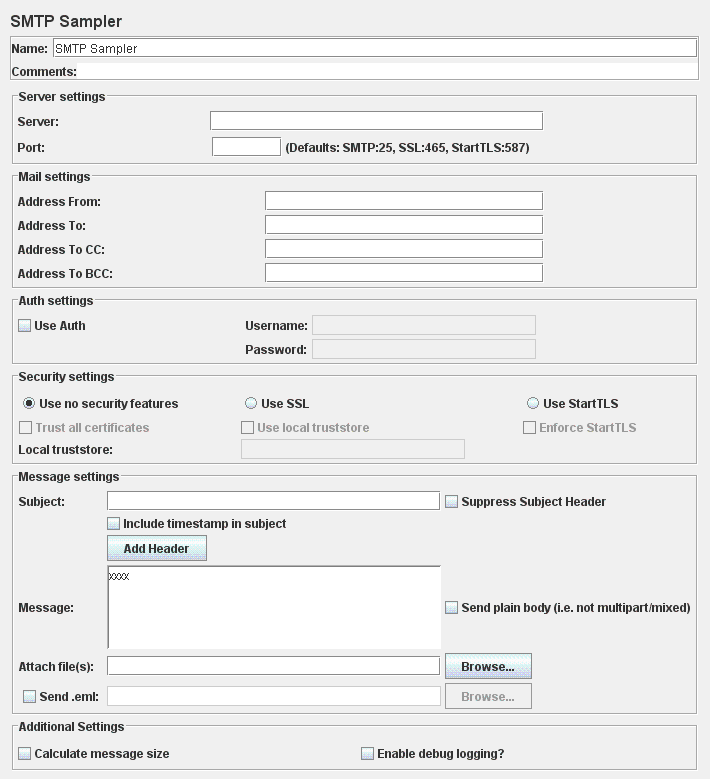
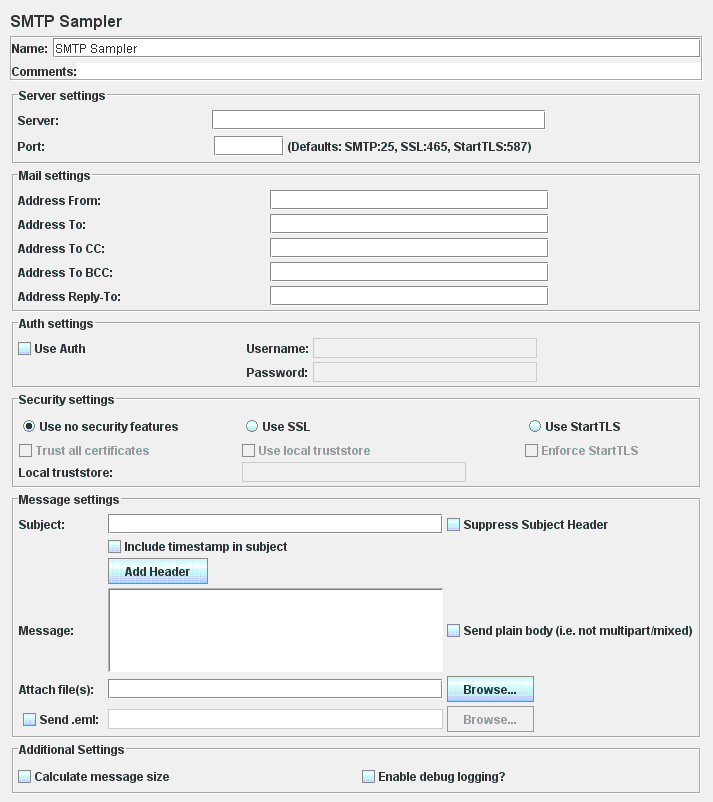
Add Reply-To field to SMTP Sampler
git-svn-id: https://svn.apache.org/repos/asf/jakarta/jmeter/trunk@992261 13f79535-47bb-0310-9956-ffa450edef68

Former-commit-id: 8c173aa5c130b252de240920f7f08f495041bb5d

Changed region(s): [[0.0, 0.0, 0.9915, 0.9859], [0.6197, 0.7702, 0.9915, 0.801], [0.031, 0.7702, 0.093, 0.801]]

diff --git a/src/protocol/mail/org/apache/jmeter/protocol/smtp/sampler/gui/SmtpPanel.java b/src/protocol/mail/org/apache/jmeter/protocol/smtp/sampler/gui/SmtpPanel.java
@@ -53,6 +53,7 @@ public class SmtpPanel extends JPanel {
 
     // local vars
     private JTextField tfMailFrom;
+    private JTextField tfMailReplyTo;
     private JButton browseButton;
     private JButton emlBrowseButton;
     private JCheckBox cbUseAuth;
@@ -67,6 +68,7 @@ public class SmtpPanel extends JPanel {
     private JCheckBox cbPlainBody;
 
     private JLabel jlAddressFrom;
+    private JLabel jlAddressReplyTo;
     private JLabel jlAddressTo;
     private JLabel jlAddressToCC;
     private JLabel jlAddressToBCC;
@@ -471,12 +473,23 @@ public class SmtpPanel extends JPanel {
         }
         validate();
     }
+
+    public String getMailReplyTo() {
+        return tfMailReplyTo.getText();
+    }
+
+    public void setMailReplyTo(String replyTo) {
+        tfMailReplyTo.setText(replyTo);        
+    }
+    
+
     /**
      * Main method of class, builds all gui-components for SMTP-sampler.
      */
     private void initComponents() {
         GridBagConstraints gridBagConstraints, gridBagConstraintsMain;
 
+        jlAddressReplyTo = new JLabel(JMeterUtils.getResString("smtp_replyto")); // $NON-NLS-1$
         jlAddressFrom = new JLabel(JMeterUtils.getResString("smtp_from")); // $NON-NLS-1$
         jlAddressTo = new JLabel(JMeterUtils.getResString("smtp_to")); // $NON-NLS-1$
         jlAddressToCC = new JLabel(JMeterUtils.getResString("smtp_cc")); // $NON-NLS-1$
@@ -493,6 +506,7 @@ public class SmtpPanel extends JPanel {
         tfMailServer = new JTextField(30);
         tfMailServerPort = new JTextField(6);
         tfMailFrom = new JTextField(25);
+        tfMailReplyTo = new JTextField(25);
         tfMailTo = new JTextField(25);
         tfMailToCC = new JTextField(25);
         tfMailToBCC = new JTextField(25);
@@ -628,6 +642,14 @@ public class SmtpPanel extends JPanel {
         gridBagConstraints.gridx = 1;
         gridBagConstraints.gridy = 3;
         panelMailSettings.add(tfMailToBCC, gridBagConstraints);
+
+        gridBagConstraints.gridx = 0;
+        gridBagConstraints.gridy = 4;
+        panelMailSettings.add(jlAddressReplyTo, gridBagConstraints);
+
+        gridBagConstraints.gridx = 1;
+        gridBagConstraints.gridy = 4;
+        panelMailSettings.add(tfMailReplyTo, gridBagConstraints);
 
         gridBagConstraintsMain.gridx = 0;
         gridBagConstraintsMain.gridy = 1;
@@ -964,6 +986,7 @@ public class SmtpPanel extends JPanel {
         tfAuthUsername.setText("");
         tfEmlMessage.setText("");
         tfMailFrom.setText("");
+        tfMailReplyTo.setText("");
         tfMailServer.setText("");
         tfMailServerPort.setText("");
         tfMailTo.setText("");
@@ -1073,5 +1096,5 @@ public class SmtpPanel extends JPanel {
             }
         }
     }
-	
+
 }

diff --git a/src/protocol/mail/org/apache/jmeter/protocol/smtp/sampler/SmtpSampler.java b/src/protocol/mail/org/apache/jmeter/protocol/smtp/sampler/SmtpSampler.java
@@ -67,6 +67,7 @@ public class SmtpSampler extends AbstractSampler {
     public final static String USERNAME             = "SMTPSampler.username"; // $NON-NLS-1$
     public final static String PASSWORD             = "SMTPSampler.password"; // $NON-NLS-1$
     public final static String MAIL_FROM            = "SMTPSampler.mailFrom"; // $NON-NLS-1$
+    public static final String MAIL_REPLYTO         = "SMTPSampler.replyTo"; // $NON-NLS-1$
     public final static String RECEIVER_TO          = "SMTPSampler.receiverTo"; // $NON-NLS-1$
     public final static String RECEIVER_CC          = "SMTPSampler.receiverCC"; // $NON-NLS-1$
     public final static String RECEIVER_BCC         = "SMTPSampler.receiverBCC"; // $NON-NLS-1$
@@ -132,12 +133,14 @@ public class SmtpSampler extends AbstractSampler {
         final String receiverTo = getPropertyAsString(SmtpSampler.RECEIVER_TO).trim();
         final String receiverCC = getPropertyAsString(SmtpSampler.RECEIVER_CC).trim();
         final String receiverBcc = getPropertyAsString(SmtpSampler.RECEIVER_BCC).trim();
+        final String replyTo = getPropertyAsString(SmtpSampler.MAIL_REPLYTO).trim();
 
         try {
             // Process address lists
             instance.setReceiverTo(getPropNameAsAddresses(receiverTo));
             instance.setReceiverCC(getPropNameAsAddresses(receiverCC));
             instance.setReceiverBCC(getPropNameAsAddresses(receiverBcc));
+            instance.setReplyTo(getPropNameAsAddresses(replyTo));
 
             if(getPropertyAsBoolean(SUPPRESS_SUBJECT)){
                 instance.setSubject(null);

diff --git a/src/protocol/mail/org/apache/jmeter/protocol/smtp/sampler/gui/SmtpSamplerGui.java b/src/protocol/mail/org/apache/jmeter/protocol/smtp/sampler/gui/SmtpSamplerGui.java
@@ -69,6 +69,7 @@ public class SmtpSamplerGui extends AbstractSamplerGui {
         smtpPanel.setServer(element.getPropertyAsString(SmtpSampler.SERVER));
         smtpPanel.setPort(element.getPropertyAsString(SmtpSampler.SERVER_PORT));
         smtpPanel.setMailFrom(element.getPropertyAsString(SmtpSampler.MAIL_FROM));
+        smtpPanel.setMailReplyTo(element.getPropertyAsString(SmtpSampler.MAIL_REPLYTO));
         smtpPanel.setReceiverTo(element.getPropertyAsString(SmtpSampler.RECEIVER_TO));
         smtpPanel.setReceiverCC(element.getPropertyAsString(SmtpSampler.RECEIVER_CC));
         smtpPanel.setReceiverBCC(element.getPropertyAsString(SmtpSampler.RECEIVER_BCC));
@@ -124,6 +125,7 @@ public class SmtpSamplerGui extends AbstractSamplerGui {
         te.setProperty(SmtpSampler.SERVER, smtpPanel.getServer());
         te.setProperty(SmtpSampler.SERVER_PORT, smtpPanel.getPort());
         te.setProperty(SmtpSampler.MAIL_FROM, smtpPanel.getMailFrom());
+        te.setProperty(SmtpSampler.MAIL_REPLYTO, smtpPanel.getMailReplyTo());
         te.setProperty(SmtpSampler.RECEIVER_TO, smtpPanel.getReceiverTo());
         te.setProperty(SmtpSampler.RECEIVER_CC, smtpPanel.getReceiverCC());
         te.setProperty(SmtpSampler.RECEIVER_BCC, smtpPanel.getReceiverBCC());

diff --git a/src/protocol/mail/org/apache/jmeter/protocol/smtp/sampler/protocol/SendMailCommand.java b/src/protocol/mail/org/apache/jmeter/protocol/smtp/sampler/protocol/SendMailCommand.java
@@ -70,6 +70,7 @@ public class SendMailCommand {
     private String smtpServer;
     private String smtpPort;
     private String sender;
+    private List<InternetAddress> replyTo;
     private String emlMessage;
     private List<InternetAddress> receiverTo;
     private List<InternetAddress> receiverCC;
@@ -210,6 +211,11 @@ public class SendMailCommand {
         // set from field and subject
         if (null != sender) {
             message.setFrom(new InternetAddress(sender));
+        }
+
+        if (null != replyTo) {
+            InternetAddress[] to = new InternetAddress[replyTo.size()];
+            message.setReplyTo(replyTo.toArray(to));
         }
 
         message.setSubject(subject);
@@ -760,5 +766,9 @@ public class SendMailCommand {
     public void setEnableDebug(boolean selected) {
         enableDebug = selected;
 
+    }
+
+    public void setReplyTo(List<InternetAddress> replyTo) {
+        this.replyTo = replyTo;
     }
 }
